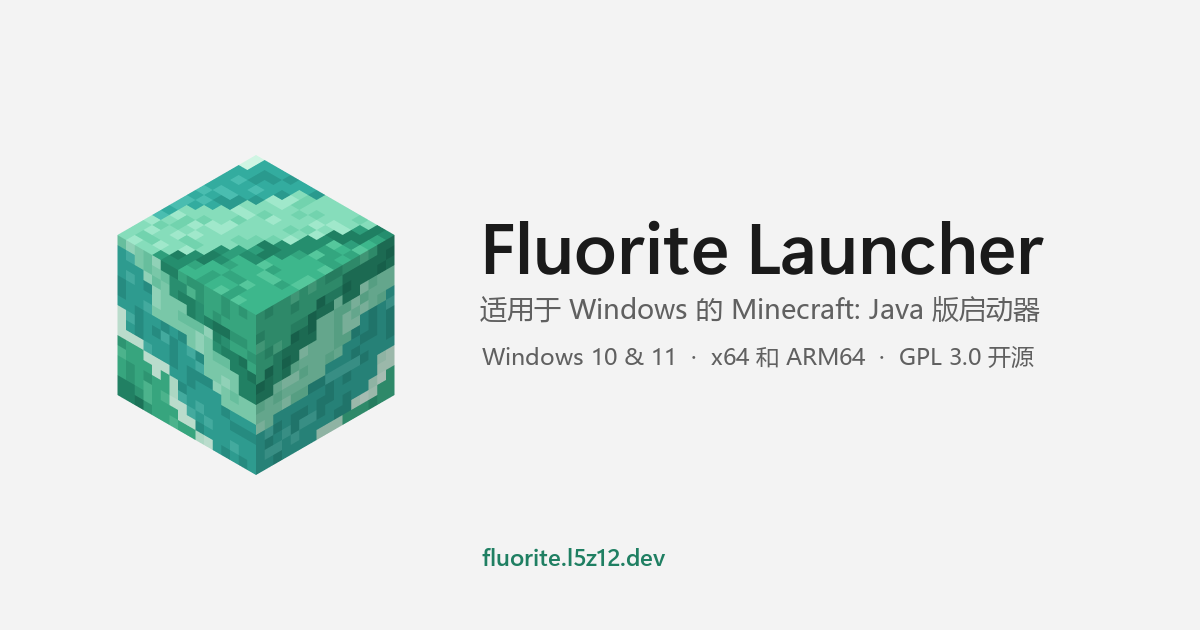
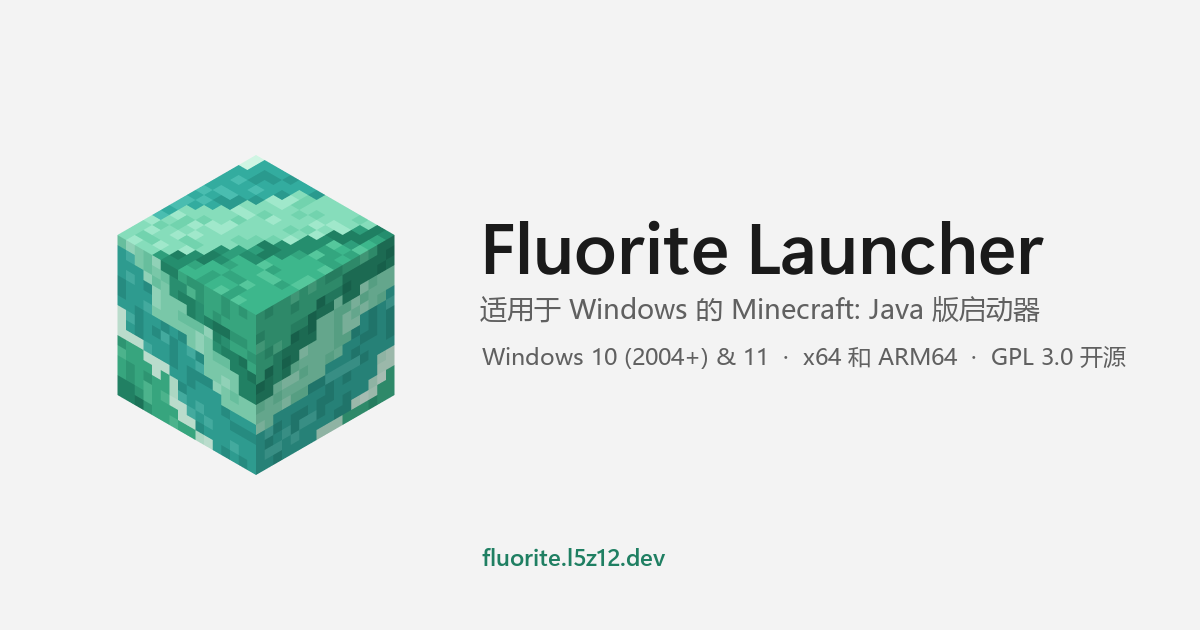
fix: say Windows 10 2004+ on the link previews; check fonts before writing
The cards said "Windows 10 & 11" while the website and the app need Windows 10 2004 or later. The generator now
checks for Segoe UI Variable and Microsoft YaHei before it writes anything, so a missing font can't leave the
app icons regenerated and the cards stale.

Changed region(s): [[0.5242, 0.5429, 0.9558, 0.6032]]

diff --git a/tools/generate-assets.py b/tools/generate-assets.py
@@ -171,12 +171,12 @@ def save(img, name):
 # ── Link previews ─────────────────────────────────────────────────────────────────────
 # Text is set in the website's fonts: Segoe UI Variable, and Microsoft YaHei for Chinese.
 FONTS = Path(os.environ.get("WINDIR", "C:/Windows")) / "Fonts"
+SEGOE, YAHEI = FONTS / "SegUIVar.ttf", FONTS / "msyh.ttc"
 INK, INK2, ACCENT = (26, 26, 26), (96, 96, 96), (31, 127, 98)
 CARD_TEXT = {
-    "en": ("A Minecraft: Java Edition launcher for Windows", ["Windows 10 & 11", "x64 & ARM64", "GPL-3.0"]),
-    "zh-hans": ("适用于 Windows 的 Minecraft: Java 版启动器", ["Windows 10 & 11", "x64 和 ARM64", "GPL 3.0 开源"]),
+    "en": ("A Minecraft: Java Edition launcher for Windows", ["Windows 10 (2004+) & 11", "x64 & ARM64", "GPL-3.0"]),
+    "zh-hans": ("适用于 Windows 的 Minecraft: Java 版启动器", ["Windows 10 (2004+) & 11", "x64 和 ARM64", "GPL 3.0 开源"]),
 }
-
 
 CARD_SIZE, CARD_BG = (1200, 630), (243, 243, 243)
 CARD_LOGO = (96, 155, 320)  # x, y, size
@@ -202,8 +202,8 @@ def opsz(size):
 def card_font(lang, size, weight):
     """Segoe UI Variable at a weight; Chinese lines use Microsoft YaHei, drawn from its regular file."""
     if lang != "en":
-        return ImageFont.truetype(str(FONTS / "msyh.ttc"), size)
-    font = ImageFont.truetype(str(FONTS / "SegUIVar.ttf"), size)
+        return ImageFont.truetype(str(YAHEI), size)
+    font = ImageFont.truetype(str(SEGOE), size)
     font.set_variation_by_axes([weight, opsz(size)])
     return font
 
@@ -250,6 +250,11 @@ SCALES = (100, 125, 150, 200, 400)
 
 
 def main():
+    # Check the fonts before writing anything, so a missing one can't leave the outputs half regenerated.
+    missing = [str(f) for f in (SEGOE, YAHEI) if not f.is_file()]
+    if missing:
+        sys.exit(f"The link previews need these fonts, which aren't installed: {', '.join(missing)}")
+
     OUT.mkdir(parents=True, exist_ok=True)
     for old in OUT.glob("Logo*.png"):
         old.unlink()
